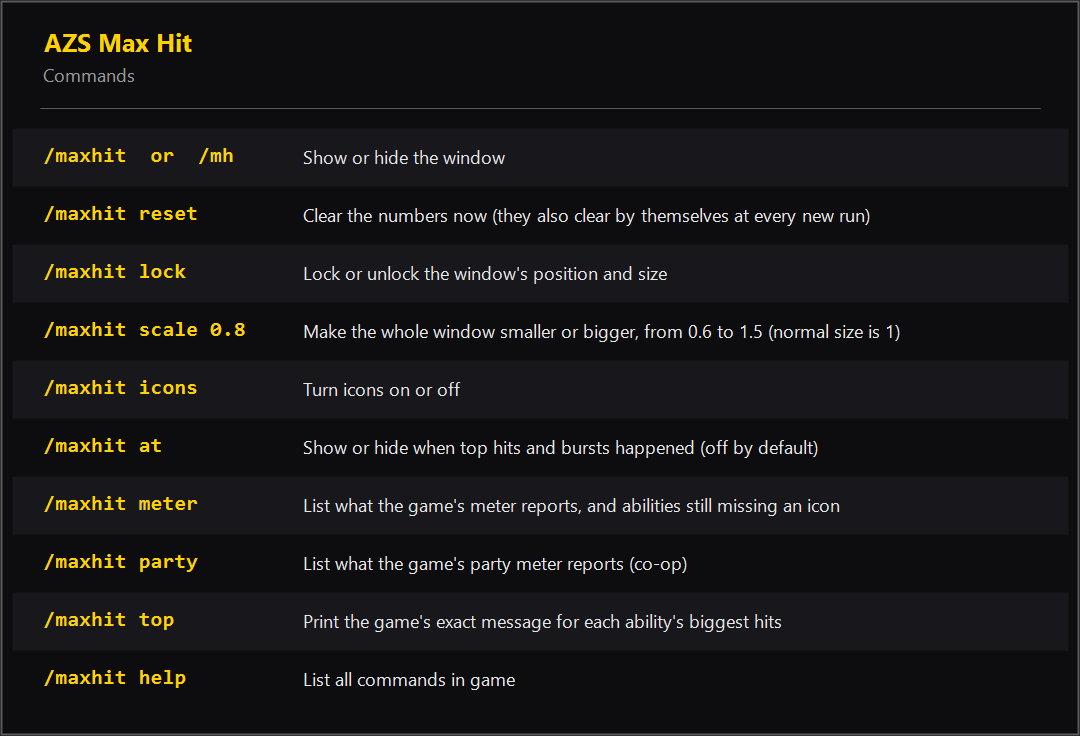
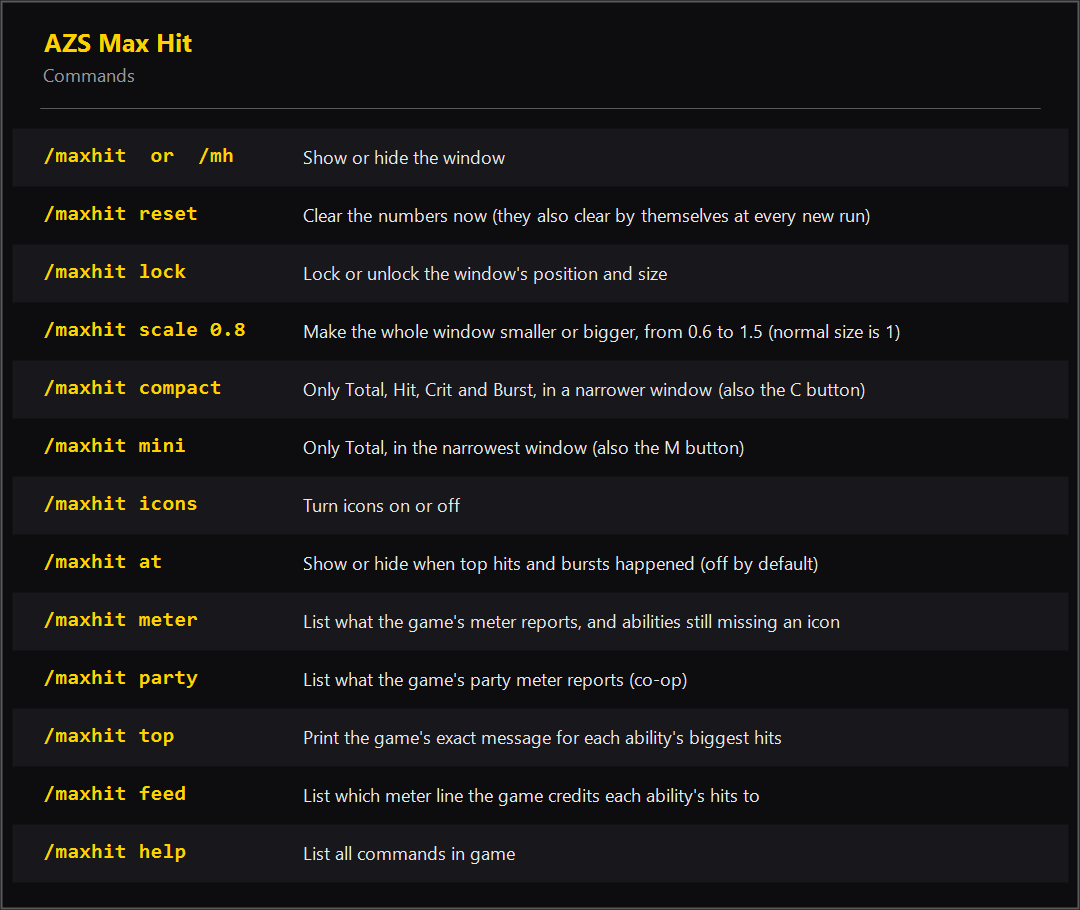
docs: update screenshots and notes for the 1.5.0 release

diff --git a/CHANGELOG.md b/CHANGELOG.md
@@ -2,18 +2,16 @@
 
 ## 1.5.0
 
-- Exact numbers for every proc. On game 0.139 and later, the game says which damage meter line each hit counts toward, and the addon now uses that for all classes. Shadow Weaving, Shadowy Apparitions, Seal Fate, Nightfall, demons and item procs get their own true Hit, Crit, Burst, Avg, Hits and Crit%, and a spell's row only counts its own hits. Hit should no longer end up above Crit because of a proc.
+Tested with game 0.139.0, in game on Shadow Priest, Warlock, Hunter and Enhancement Shaman.
+
+- Exact numbers for procs, thanks to the game's new data. On game 0.139 and later, the game says which damage meter line each hit counts toward, and the addon now uses that for all classes. Shadow Weaving, Shadowy Apparitions, demons, pets and item procs get their own true Hit, Crit, Burst, Avg, Hits and Crit%, and a spell's row only counts its own hits. Hit should no longer end up above Crit because of a proc.
 - Grouping stays: procs sit under the ability they borrow, like Shadowy Apparitions under Mind Blast, and a demon under the spell it casts, like the Dread Lord under Searing Pain, each with its own numbers. That spell's row shows `-` until you cast it yourself, so nothing jumps when you learn it. A summon's attacks stay under it, like Infernal: Melee and Hellfire under Infernal. Shadowform stands alone, since Corpse Explosion isn't a spell you pick.
-- Shaman: Windfury Weapon has a row under each spell that triggers it, like Stormstrike and Rockbiter Weapon, each with its own numbers, because its hits differ a lot between them.
+- Shaman: Windfury Weapon has a row under each spell that triggers it, like Stormstrike and Rockbiter Weapon, each with its own numbers, because its hits differ a lot between them. Eye of the Tempest now sits under Chain Lightning, so its damage no longer counts twice.
+- Hunter: Bestial Wrath's splashes are on its own row, so a pet's Hit, Crit and Avg only count its bites.
+- New `/maxhit feed` command lists which meter line the game credits each ability's hits to.
 - Older game versions keep working the way they did.
 - New Compact and Mini views, with C and M buttons next to R. Compact, or `/maxhit compact`, leaves only Total, Hit, Crit and Burst, with no OVERKILL tile. Mini, or `/maxhit mini`, leaves only Total, with TOP HIT and TOTAL on top. Both narrow the window, and the Party tab keeps its full width.
 - The title bar has - and + buttons next to R that make the whole window smaller or bigger, in steps of 0.1. The window's top-right corner stays in place while you click. `/maxhit scale` still sets an exact size.
-
-## 1.4.1
-
-- Shaman: Eye of the Tempest now sits under Chain Lightning, the name its free casts have in the combat log, so its damage no longer counts twice.
-- Hunter: on game 0.139 and later, the game says which hits are Bestial Wrath's splashes, so they reach its row at any rank.
-- New `/maxhit feed` command lists which meter line the game credits each ability's hits to.
 
 ## 1.4.0
 

diff --git a/README.md b/README.md
@@ -2,7 +2,7 @@
 
 [![Latest release](https://img.shields.io/github/v/release/GhoulCompiler/AZSMaxHit)](https://github.com/GhoulCompiler/AZSMaxHit/releases/latest)
 [![Downloads](https://img.shields.io/github/downloads/GhoulCompiler/AZSMaxHit/total)](https://github.com/GhoulCompiler/AZSMaxHit/releases)
-[![Tested with game 0.138.0](https://img.shields.io/badge/tested%20with%20game-0.138.0-brightgreen)](CHANGELOG.md)
+[![Tested with game 0.139.0](https://img.shields.io/badge/tested%20with%20game-0.139.0-brightgreen)](CHANGELOG.md)
 [![License: MIT](https://img.shields.io/badge/license-MIT-blue)](LICENSE)
 
 An addon for [Azeroth Survivors](https://wow.aethus.pl/) that shows each ability's **biggest hit**, **biggest crit**, **burst** and **total damage** for the current run.
@@ -30,7 +30,7 @@ Damage meters tell you which ability did the most damage overall. AZS Max Hit te
 |---|---|
 | <img src="images/compact.png" alt="Compact view: only Total, Hit, Crit and Burst, with procs still grouped under their spell" width="420"> | <img src="images/mini.png" alt="Mini view: only Total, with the top hit and total above it" width="240"> |
 
-Pure Lua (`.toc` and `.lua` only): no DLLs or executables. Works in the browser and desktop editions. Tested with game version **0.138.0**.
+Pure Lua (`.toc` and `.lua` only): no DLLs or executables. Works in the browser and desktop editions. Tested with game version **0.139.0**.
 
 The addon raises the game's combat log range settings to 200, so hits on distant enemies are recorded. It changes nothing else in the game.
 
